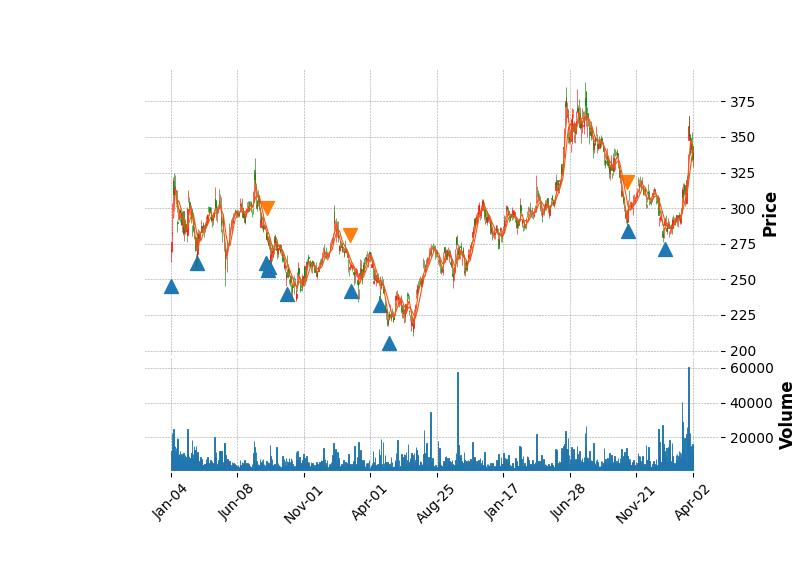
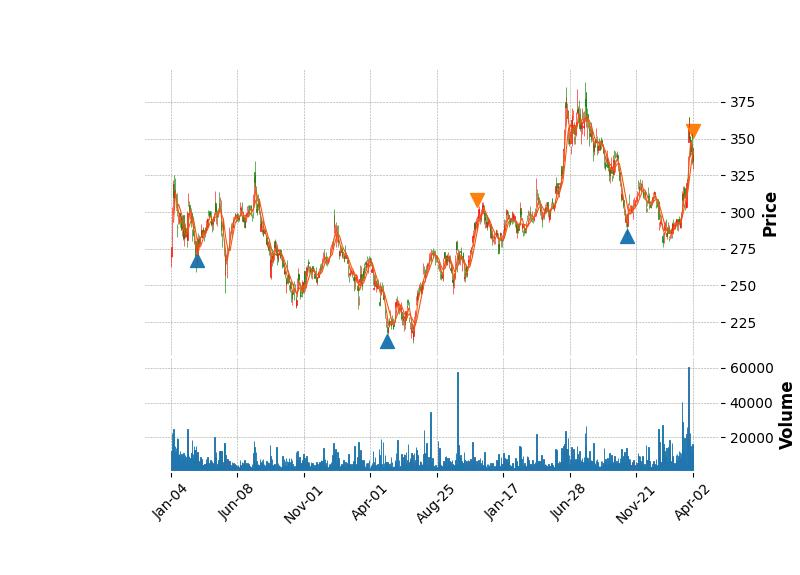
final model

diff --git a/main.py b/main.py
@@ -53,7 +53,7 @@ def simulate_martingale_strategy(stock_data):
     # define the trader
     holding_share = 0
     cost = 0
-    cash = 1000000
+    cash = 10000000
     profit = 0
     record = {'holding_share':[], 'cost':[], 'cash':[], 'profit':[]}
 
@@ -65,7 +65,7 @@ def simulate_martingale_strategy(stock_data):
     # define the behavior
     def buy(row):
         nonlocal holding_share, cost, cash, buy_dates
-        magnification = 2
+        magnification = 5
         if holding_share == 0 and cash >= row['Close'] * 1000:
             holding_share = 1  # start from 1 share or you can change to other number
             cost += row['Close'] * 1000
@@ -91,23 +91,23 @@ def simulate_martingale_strategy(stock_data):
 
 
     # here to implement the strategy
-    threshold = 0.1
+    threshold = 0.2
     buy_times = 0
     buy_dates, sell_dates = [], []
     golden_cross, death_cross = find_kd_cross(stock_data)
 
     for index, row in stock_data.iterrows():
         update_record()
-        # if the price is lower than the threshold, buy         --add kd condition
-        if (cost and (cost - row['Close'] * holding_share) / (cost + 1) >= threshold and row.name in golden_cross) or holding_share == 0:
-            if buy_times == 3:
+        # if the price is lower than the threshold, buy         --add kd condition  
+        if ((cost - row['Close'] * 1000 * holding_share) / (cost + 1) >= threshold) or (holding_share == 0 and row.name in golden_cross):
+            if buy_times == 4:
                 sell(row)
                 buy_times = 0
             else:
                 buy(row)
                 buy_times += 1
         # if the price is higher than the threshold, sell
-        elif (row['Close'] * holding_share - cost) / (cost + 1) >= threshold:
+        elif (row['Close'] * 1000 * holding_share - cost) / (cost + 1) >= threshold and row.name in death_cross:
             sell(row)
             buy_times = 0
         # if the price is between the threshold, do nothing
@@ -157,11 +157,11 @@ def print_result(df, buy_dates, sell_dates, strategy):
         buy, sell = [], []
         for index, row in df.iterrows():
             if row.name in buy_dates:
-                buy.append(row['Close']-20)
+                buy.append(row['Close']*0.95)
             else:
                 buy.append(np.nan)
             if row.name in sell_dates:
-                sell.append(row['Close']+20)
+                sell.append(row['Close']*1.05)
             else: 
                 sell.append(np.nan)
         return buy, sell
